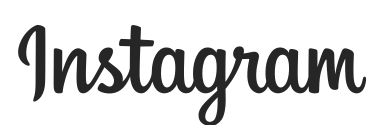
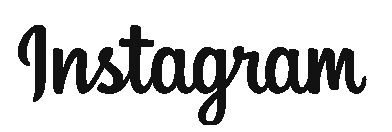
update: login page styles

diff --git a/src/routes/login/Login.tsx b/src/routes/login/Login.tsx
@@ -1,5 +1,6 @@
 import React, { useEffect, useState } from 'react';
 import './login.scss';
+import { FaFacebookSquare } from 'react-icons/fa';
 import { loginValidator } from 'src/helpers/joiValidators';
 import instagramLogo from 'src/images/instagram-login.png';
 import { InputBox } from 'src/components';
@@ -26,7 +27,16 @@ const Login = () => {
 
   return (
     <section className="login-container">
-      <img className="w-40" src={instagramLogo} alt="instagram" />
+      <img className="w-48" src={instagramLogo} alt="instagram" />
+      <div className="my-7">
+        <button type="button" className="form-button flex justify-center items-center">
+          <FaFacebookSquare className="mr-2" />
+          Continue with Facebook
+        </button>
+      </div>
+      <div className="relative border-t border-gray-300 w-68">
+        <span className="absolute -top-2 bg-gray-50 text-gray-400 w-14 left-28 text-sm">OR</span>
+      </div>
       <form onSubmit={(e) => handleLogin(e)}>
         <InputBox
           item={username}
@@ -36,7 +46,7 @@ const Login = () => {
           placeholder="username"
         />
 
-        <div className="flex w-72 mt-2 rounded-sm">
+        <div className="flex w-68 mt-2 rounded-sm">
           <InputBox
             item={password}
             setItem={setPassword}
@@ -54,16 +64,16 @@ const Login = () => {
             </button>
           </div>
         </div>
-        <div className="w-72 text-right mt-3 font-light">
+        <div className="w-68 text-right mt-3 font-light">
           <a className="text-sm " href="/login">
             Forgot password?
           </a>
         </div>
-        <button className="login-button w-72 mt-5 h-8 rounded-sm text-white" type="submit">
+        <button className="form-button" type="submit">
           Login
         </button>
       </form>
-      <div className="text-sm text-gray-400 mt-5">
+      <div className="text-sm w-68 text-gray-400 mt-5">
         Don't have an account? <a href="/signup">Sign up</a>
       </div>
       {inputError && <div className="mt-5 text-gray-600">{inputError}</div>}

diff --git a/src/components/input-box/InputBox.tsx b/src/components/input-box/InputBox.tsx
@@ -15,7 +15,7 @@ const InputBox = ({
   placeholder: string;
 }) => {
   return (
-    <label className="relative w-72 border border-gray-200 rounded-sm" htmlFor={placeholder}>
+    <label className="relative w-68 border border-gray-200 rounded-sm" htmlFor={placeholder}>
       <span
         className={`absolute left-4 text-sm text-gray-400 ${
           item ? 'trans-effect' : ' top-3 trans-effect-none'

diff --git a/tailwind.config.js b/tailwind.config.js
@@ -2,7 +2,11 @@ module.exports = {
   purge: ['./src/**/*.{js,jsx,ts,tsx}', './public/index.html'],
   darkMode: false, // or 'media' or 'class'
   theme: {
-    extend: {},
+    extend: {
+      spacing: {
+        68: '17rem',
+      },
+    },
   },
   variants: {
     extend: {},

diff --git a/src/index.scss b/src/index.scss
@@ -10,7 +10,7 @@
 
 body {
   margin: 0;
-  background-color: #fafafa;
+  @apply bg-gray-50;
   font-family: 'Roboto', sans-serif;
   -webkit-font-smoothing: antialiased;
   -moz-osx-font-smoothing: grayscale;

diff --git a/src/routes/login/login.scss b/src/routes/login/login.scss
@@ -11,6 +11,7 @@
   }
 }
 
-.login-button {
+.form-button {
   background-color: scss.$button-background-blue;
+  @apply w-68 mt-5 h-8 rounded-md text-white text-sm font-medium;
 }
